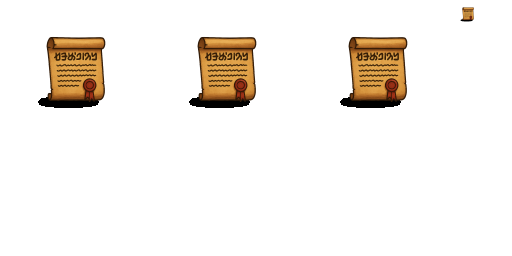
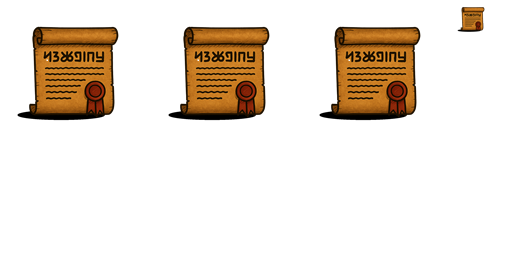
adding modal window for trophies

diff --git a/Medals2/SimpleScrollableListSideScreen.cs b/Medals2/SimpleScrollableListSideScreen.cs
@@ -1,0 +1,110 @@
+using System.Collections.Generic;
+using UnityEngine;
+using UnityEngine.UI;
+
+/// <summary>
+/// A simple scrollable side screen for displaying a list of text rows.
+/// </summary>
+public class SimpleScrollableListSideScreen : SideScreenContent
+{
+    private ScrollRect scrollRect;
+    private RectTransform viewport;
+    private RectTransform content;
+    private VerticalLayoutGroup layout;
+    private List<TMPro.TMP_Text> rows = new List<TMPro.TMP_Text>();
+    private const float RowHeight = 30f;
+
+    public override void OnSpawn()
+    {
+        base.OnSpawn();
+
+        // Ensure this GameObject has a RectTransform and Image for white background
+        var thisRect = gameObject.GetComponent<RectTransform>() ?? gameObject.AddComponent<RectTransform>();
+        thisRect.anchorMin = new Vector2(0, 0);
+        thisRect.anchorMax = new Vector2(1, 1);
+        thisRect.offsetMin = Vector2.zero;
+        thisRect.offsetMax = Vector2.zero;
+
+        var image = gameObject.GetComponent<Image>() ?? gameObject.AddComponent<Image>();
+        image.color = Color.white;
+
+        // Set up ScrollRect
+        scrollRect = gameObject.AddComponent<ScrollRect>();
+        scrollRect.horizontal = false;
+
+        // Viewport
+        var viewportGO = new GameObject("Viewport", typeof(RectTransform), typeof(CanvasRenderer), typeof(Image), typeof(Mask));
+        viewportGO.transform.SetParent(transform, false);
+        viewport = viewportGO.GetComponent<RectTransform>();
+        viewport.anchorMin = new Vector2(0, 0);
+        viewport.anchorMax = new Vector2(1, 1);
+        viewport.offsetMin = Vector2.zero;
+        viewport.offsetMax = Vector2.zero;
+        viewportGO.GetComponent<Image>().color = new Color(1, 1, 1, 0); // transparent
+        viewportGO.GetComponent<Mask>().showMaskGraphic = false;
+        scrollRect.viewport = viewport;
+
+        // Content
+        var contentGO = new GameObject("Content", typeof(RectTransform));
+        contentGO.transform.SetParent(viewport, false);
+        content = contentGO.GetComponent<RectTransform>();
+        content.anchorMin = new Vector2(0, 1);
+        content.anchorMax = new Vector2(1, 1);
+        content.pivot = new Vector2(0.5f, 1);
+        content.offsetMin = Vector2.zero;
+        content.offsetMax = Vector2.zero;
+        scrollRect.content = content;
+
+        // Layout
+        layout = contentGO.AddComponent<VerticalLayoutGroup>();
+        layout.childForceExpandHeight = false;
+        layout.childForceExpandWidth = true;
+        layout.childControlHeight = true;
+        layout.childControlWidth = true;
+        layout.spacing = 0;
+
+        var fitter = contentGO.AddComponent<ContentSizeFitter>();
+        fitter.verticalFit = ContentSizeFitter.FitMode.PreferredSize;
+
+        // Set a minimum height for the scroll area
+        thisRect.SetSizeWithCurrentAnchors(RectTransform.Axis.Vertical, 300);
+        viewport.SetSizeWithCurrentAnchors(RectTransform.Axis.Vertical, 300);
+    }
+
+    public void AddRow(string text)
+    {
+        if (layout == null)
+            return;
+
+        var rowObj = new GameObject("Row", typeof(RectTransform));
+        rowObj.transform.SetParent(content, false);
+
+        // Add a CanvasRenderer so TextMeshProUGUI can render
+        rowObj.AddComponent<CanvasRenderer>();
+
+        var textComp = rowObj.AddComponent<TMPro.TextMeshProUGUI>();
+        textComp.text = text;
+        textComp.fontSize = 20;
+        textComp.enableWordWrapping = true;
+        textComp.alignment = TMPro.TextAlignmentOptions.Left;
+        textComp.color = Color.black;
+        textComp.raycastTarget = false; // Optional: disables raycast for text
+        rows.Add(textComp);
+
+        var layoutElement = rowObj.AddComponent<UnityEngine.UI.LayoutElement>();
+        layoutElement.preferredHeight = RowHeight;
+    }
+
+    public void ClearRows()
+    {
+        foreach (var row in rows)
+        {
+            if (row != null)
+                Destroy(row.gameObject);
+        }
+        rows.Clear();
+    }
+
+    public override void SetTarget(GameObject target) { }
+    public override bool IsValidForTarget(GameObject target) => true;
+}

diff --git a/Medals2/BlankScreenButtonPatch.cs b/Medals2/BlankScreenButtonPatch.cs
@@ -1,0 +1,106 @@
+using UnityEngine;
+using HarmonyLib;
+using UnityEngine.UI;
+using System.Collections.Generic;
+using PeterHan.PLib.UI;
+
+[HarmonyPatch(typeof(TelepadSideScreen), "OnSpawn")]
+public static class TelepadSideScreen_AddBlankScreenButtonPatch
+{
+    private static void Postfix(TelepadSideScreen __instance)
+    {
+        var summaryButton = __instance.viewColonySummaryBtn;
+        if (summaryButton == null || summaryButton.gameObject == null || summaryButton.transform == null)
+            return;
+
+        var parent = summaryButton.transform.parent;
+        if (parent == null)
+            return;
+
+        // Clone the summary button as a template
+        var blankButtonObj = Object.Instantiate(summaryButton.gameObject, parent);
+        blankButtonObj.name = "BlankScreenButton";
+        blankButtonObj.transform.SetAsLastSibling();
+
+        // Set button text
+        var text = blankButtonObj.GetComponentInChildren<Text>(true);
+        if (text != null)
+            text.text = "Memento Gallery";
+        var tmpText = blankButtonObj.GetComponentInChildren<TMPro.TMP_Text>(true);
+        if (tmpText != null)
+            tmpText.text = "Memento Gallery";
+
+        // Wire up click to open Plib modal
+        var button = blankButtonObj.GetComponent<Button>();
+        if (button != null)
+        {
+            button.onClick.RemoveAllListeners();
+            button.onClick.AddListener(ShowPlibModal);
+        }
+        else
+        {
+            var kbutton = blankButtonObj.GetComponent<KButton>();
+            if (kbutton != null)
+            {
+                kbutton.ClearOnClick();
+                kbutton.onClick += ShowPlibModal;
+            }
+        }
+    }
+
+    private static void ShowPlibModal()
+    {
+        var dialog = new PDialog("TestModal");
+        dialog.Title = "Test Modal";
+        dialog.Size = new Vector2(400, 200); // Locks the dialog window size
+
+        // Create a vertical layout for the lines
+        var vbox = new PPanel("VBox")
+        {
+            Direction = PanelDirection.Vertical,
+            Spacing = 2,
+            DynamicSize = false // Prevents the panel from expanding to fit all children
+        };
+
+        var scrollPane = new PScrollPane("ScrollPane")
+        {
+            Child = vbox,
+            ScrollVertical = true,
+            ScrollHorizontal = false,
+            TrackSize = 16f,
+            FlexSize = new Vector2(0, 18 * 5), 
+            AlwaysShowVertical = true
+        };
+
+
+        for (int i = 1; i <= 50; i++)
+        {
+            vbox.AddChild(new PLabel($"Line{i}") { Text = GetRandomLine(i) });
+        }
+
+        dialog.Body.AddChild(scrollPane);
+        dialog.AddButton("ok", "OK", null, null, null);
+        dialog.Show();
+
+    }
+
+    private static string GetRandomLine(int i)
+    {
+        string[] samples = new[]
+        {
+            "The quick brown fox jumps over the lazy dog.",
+            "Lorem ipsum dolor sit amet.",
+            "Random value: " + Random.Range(1000, 9999),
+            "Unity modding is fun!",
+            "Hello, world!",
+            "Sample text line.",
+            "Another random thought.",
+            "ONI rocks!",
+            "Plib makes UI easy.",
+            "Test entry."
+        };
+        // Pick a random sample and append the line number
+        var sample = samples[Random.Range(0, samples.Length)];
+        return $"Line {i}: {sample}";
+    }
+}

diff --git a/Medals2/BlankColonyInfoScreen.cs b/Medals2/BlankColonyInfoScreen.cs
@@ -1,0 +1,69 @@
+using UnityEngine;
+using UnityEngine.UI;
+
+/// <summary>
+/// A minimal ONI-style modal window, blank except for a close button and ONI-like color scheme.
+/// </summary>
+public class BlankColonyInfoScreen : MonoBehaviour
+{
+    private GameObject modal;
+    private GameObject panel;
+
+    public static void Show()
+    {
+        // Prevent multiple modals
+        if (GameObject.Find("BlankColonyInfoModal") != null)
+            return;
+
+        var canvas = Object.FindObjectOfType<Canvas>();
+        if (canvas == null)
+            return;
+
+        // Modal background
+        var modalObj = new GameObject("BlankColonyInfoModal", typeof(RectTransform), typeof(Image));
+        modalObj.transform.SetParent(canvas.transform, false);
+        var modalRect = modalObj.GetComponent<RectTransform>();
+        modalRect.anchorMin = Vector2.zero;
+        modalRect.anchorMax = Vector2.one;
+        modalRect.offsetMin = Vector2.zero;
+        modalRect.offsetMax = Vector2.zero;
+        var modalImg = modalObj.GetComponent<Image>();
+        modalImg.color = new Color(0, 0, 0, 0.7f); // ONI modal background
+
+        // Centered panel
+        var panelObj = new GameObject("Panel", typeof(RectTransform), typeof(Image));
+        panelObj.transform.SetParent(modalObj.transform, false);
+        var panelRect = panelObj.GetComponent<RectTransform>();
+        panelRect.sizeDelta = new Vector2(600, 400);
+        panelRect.anchoredPosition = Vector2.zero;
+        var panelImg = panelObj.GetComponent<Image>();
+        panelImg.color = new Color(0.18f, 0.22f, 0.25f, 1f); // ONI panel color
+
+        // Close button
+        var closeBtnObj = new GameObject("CloseButton", typeof(RectTransform), typeof(Button), typeof(Image));
+        closeBtnObj.transform.SetParent(panelObj.transform, false);
+        var closeRect = closeBtnObj.GetComponent<RectTransform>();
+        closeRect.anchorMin = new Vector2(1, 1);
+        closeRect.anchorMax = new Vector2(1, 1);
+        closeRect.pivot = new Vector2(1, 1);
+        closeRect.sizeDelta = new Vector2(32, 32);
+        closeRect.anchoredPosition = new Vector2(-10, -10);
+        var closeBtn = closeBtnObj.GetComponent<Button>();
+        var closeImg = closeBtnObj.GetComponent<Image>();
+        closeImg.color = new Color(0.8f, 0.2f, 0.2f, 1f);
+        var closeTextObj = new GameObject("X", typeof(RectTransform), typeof(Text));
+        closeTextObj.transform.SetParent(closeBtnObj.transform, false);
+        var closeText = closeTextObj.GetComponent<Text>();
+        closeText.text = "X";
+        closeText.font = Resources.GetBuiltinResource<Font>("Arial.ttf");
+        closeText.fontSize = 20;
+        closeText.color = Color.white;
+        closeText.alignment = TextAnchor.MiddleCenter;
+        var closeTextRect = closeTextObj.GetComponent<RectTransform>();
+        closeTextRect.anchorMin = Vector2.zero;
+        closeTextRect.anchorMax = Vector2.one;
+        closeTextRect.offsetMin = Vector2.zero;
+        closeTextRect.offsetMax = Vector2.zero;
+        closeBtn.onClick.AddListener(() => Object.Destroy(modalObj));
+    }
+}

diff --git a/Medals2/Mementos.cs b/Medals2/Mementos.cs
@@ -93,7 +93,7 @@ namespace Medals2
         public static readonly Dictionary<Reward, RewardTypeInfo> RewardTypeInfos =
             new Dictionary<Reward, RewardTypeInfo>
             {
-                { Reward.Trophy,   new RewardTypeInfo(Reward.Trophy,   "keepsake_medal_kanim") },
+                { Reward.Trophy,   new RewardTypeInfo(Reward.Trophy,   "keepsake_trophy_kanim") },
                 { Reward.Citation, new RewardTypeInfo(Reward.Citation, "keepsake_proclamation_kanim") },
                 { Reward.Oops,     new RewardTypeInfo(Reward.Oops,     "keepsake_medal_kanim") }
             };
